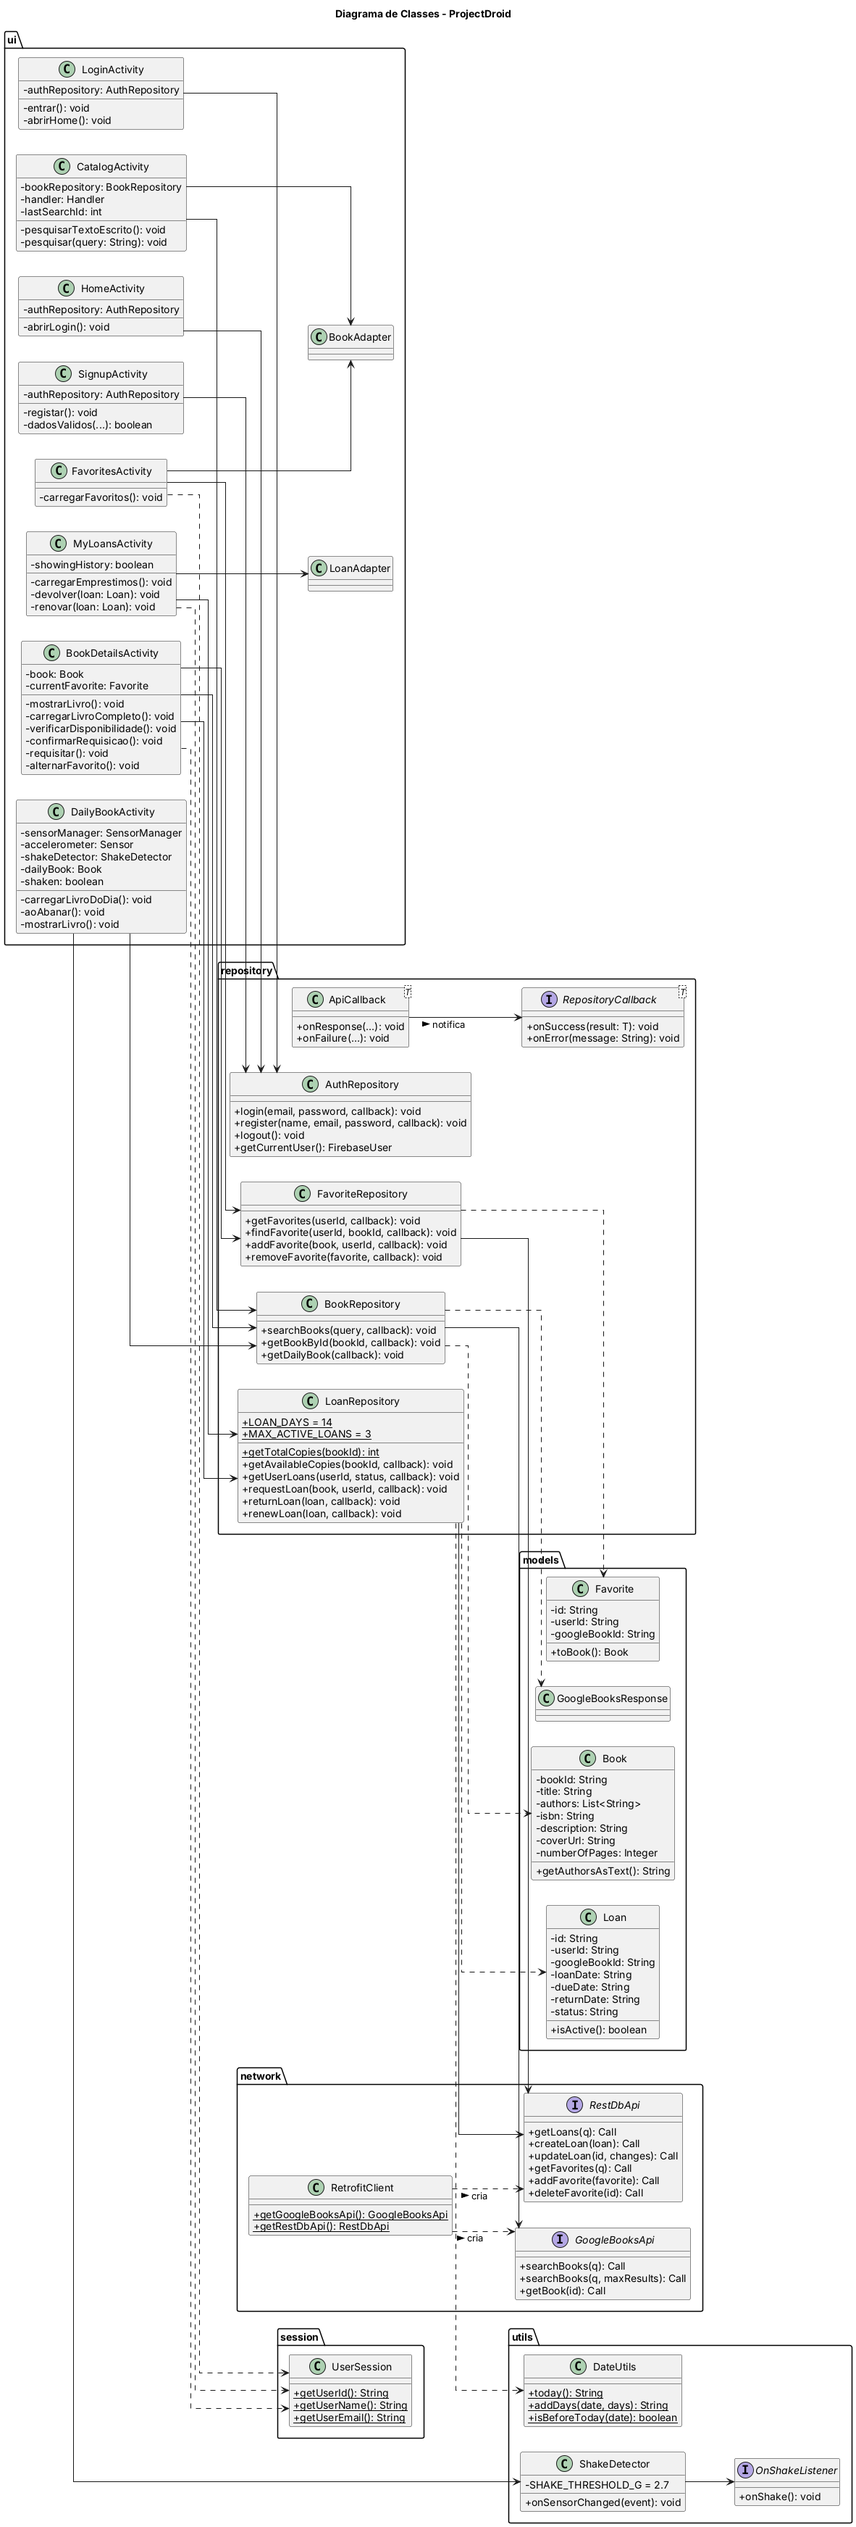
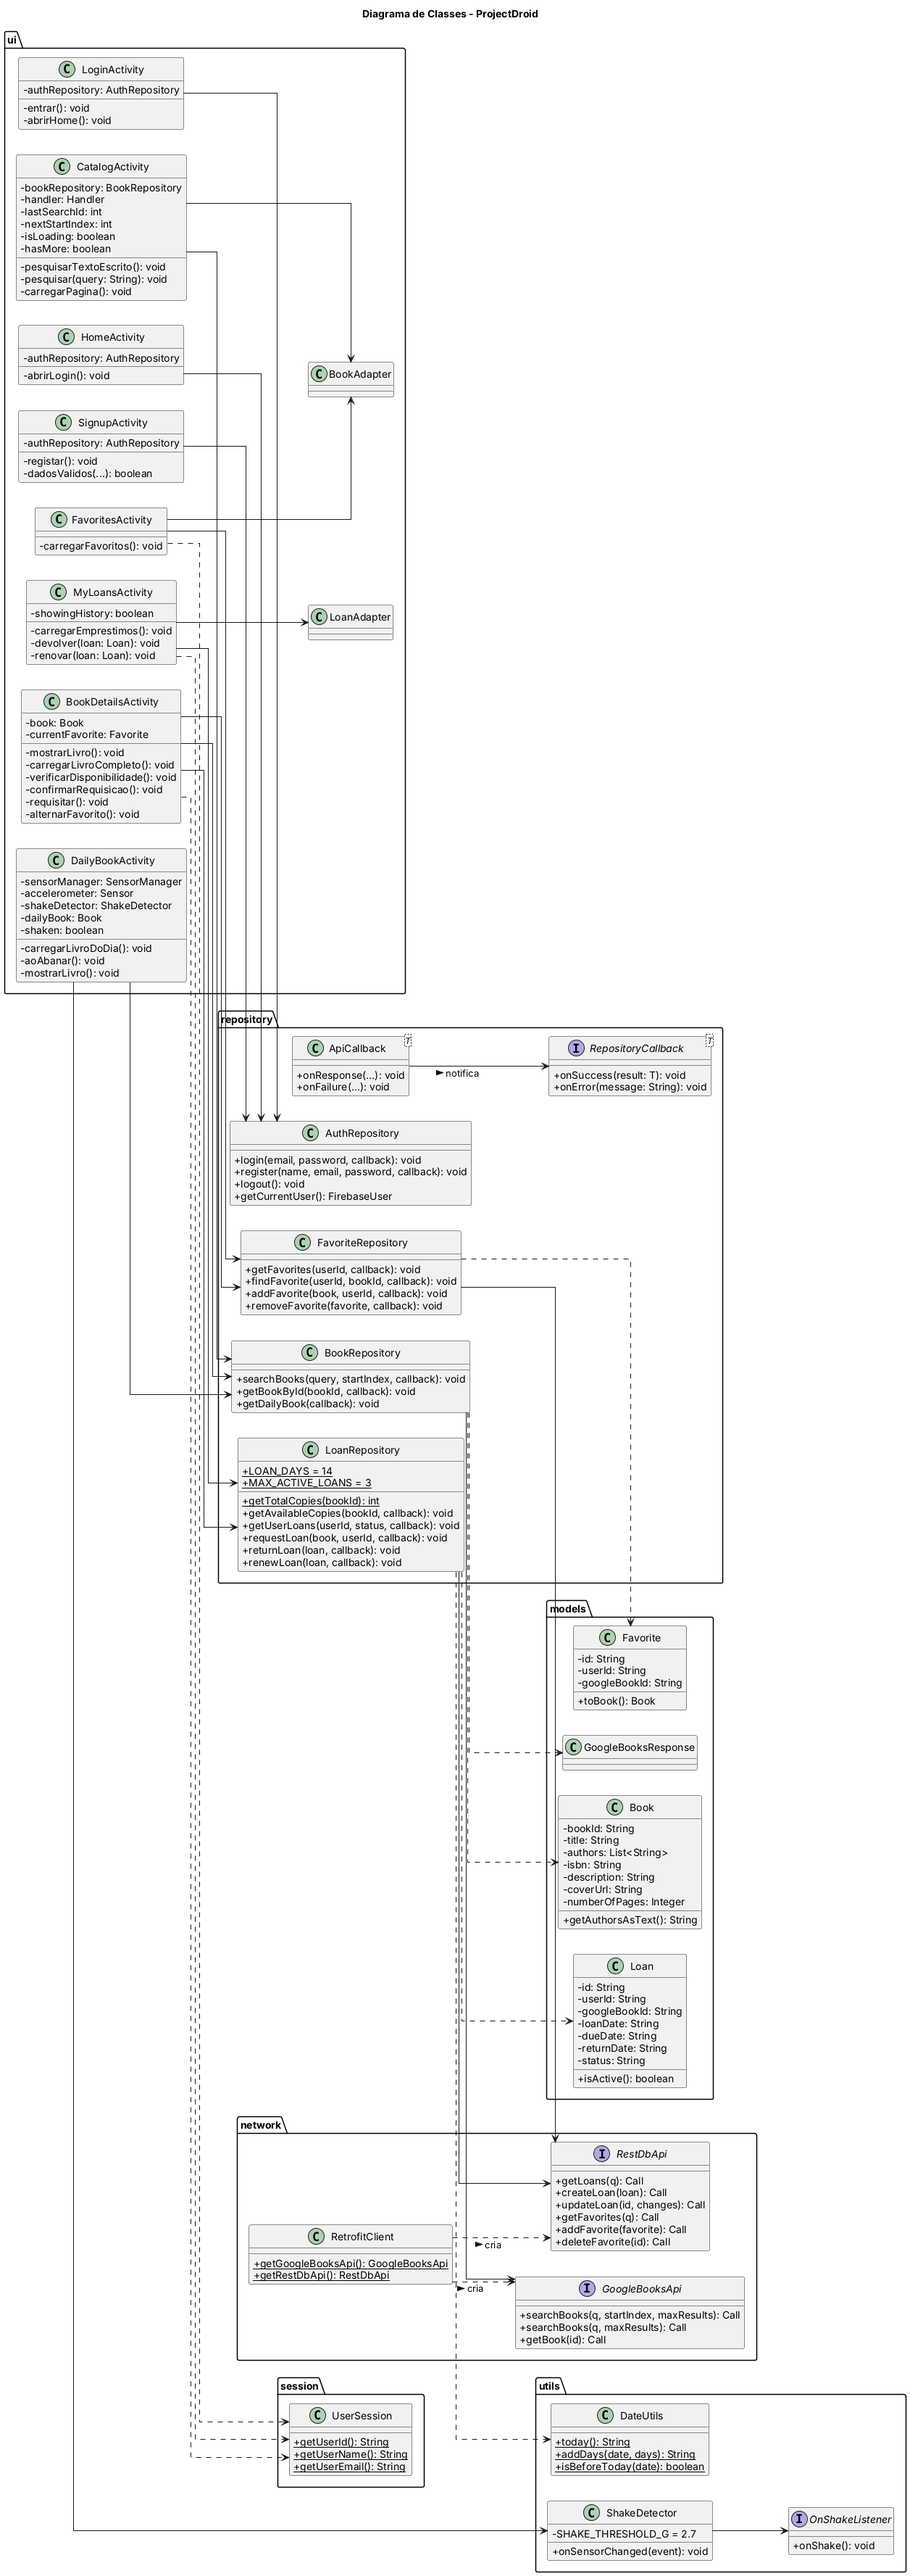
paginaçao do catalogo atualizada

diff --git a/app/src/main/java/com/example/projectdroid/ui/CatalogActivity.java b/app/src/main/java/com/example/projectdroid/ui/CatalogActivity.java
@@ -14,6 +14,7 @@ import android.widget.ProgressBar;
 import android.widget.TextView;
 import android.widget.Toast;
 
+import androidx.annotation.NonNull;
 import androidx.appcompat.app.AppCompatActivity;
 import androidx.recyclerview.widget.LinearLayoutManager;
 import androidx.recyclerview.widget.RecyclerView;
@@ -24,7 +25,9 @@ import com.example.projectdroid.repository.BookRepository;
 import com.example.projectdroid.repository.RepositoryCallback;
 
 import java.util.ArrayList;
+import java.util.HashSet;
 import java.util.List;
+import java.util.Set;
 
 public class CatalogActivity extends AppCompatActivity {
 
@@ -35,11 +38,16 @@ public class CatalogActivity extends AppCompatActivity {
     private static final int MIN_QUERY_LENGTH = 3;
     private static final long SEARCH_DELAY_MS = 500;
 
+    // Paginação: quando faltarem 5 livros para o fim da lista, pede a página seguinte
+    private static final int LOAD_MORE_THRESHOLD = 5;
+
     private final BookRepository bookRepository = new BookRepository();
     private final List<Book> books = new ArrayList<>();
     private BookAdapter adapter;
+    private LinearLayoutManager layoutManager;
     private EditText editSearchQuery;
     private ProgressBar progressSearch;
+    private ProgressBar progressMore;
     private TextView textEmpty;
 
     // Debounce: o Handler permite agendar uma tarefa para daqui a X milissegundos.
@@ -48,12 +56,18 @@ public class CatalogActivity extends AppCompatActivity {
     private final Handler handler = new Handler(Looper.getMainLooper());
     private final Runnable searchRunnable = this::pesquisarTextoEscrito;
 
-    // Cada pesquisa recebe um número. Se chegar a resposta de uma pesquisa antiga
+    // Cada pesquisa nova recebe um número. Se chegar a resposta de uma pesquisa antiga
     // (ex.: "har" depois de "harry"), o número já não é o atual e a resposta é ignorada.
     private int lastSearchId = 0;
 
-    // Última pesquisa feita, para não repetir o mesmo pedido à Google
+    // Pesquisa que está a ser mostrada, para não repetir o mesmo pedido à Google
     private String currentQuery = null;
+
+    // Estado da paginação da pesquisa atual
+    private int nextStartIndex = 0;     // posição do primeiro livro da próxima página
+    private boolean isLoading = false;  // true enquanto espera por uma página (evita pedidos repetidos)
+    private boolean hasMore = true;     // false quando a Google devolve uma página vazia
+    private final Set<String> loadedIds = new HashSet<>(); // a Google às vezes repete livros entre páginas
 
     @Override
     protected void onCreate(Bundle savedInstanceState) {
@@ -63,12 +77,30 @@ public class CatalogActivity extends AppCompatActivity {
         editSearchQuery = findViewById(R.id.editSearchQuery);
         Button btnSearch = findViewById(R.id.btnSearch);
         progressSearch = findViewById(R.id.progressSearch);
+        progressMore = findViewById(R.id.progressMore);
         textEmpty = findViewById(R.id.textEmpty);
         RecyclerView recyclerBooks = findViewById(R.id.recyclerBooks);
 
-        recyclerBooks.setLayoutManager(new LinearLayoutManager(this));
+        // O RecyclerView só cria as vistas dos livros visíveis e reutiliza-as durante o scroll,
+        // por isso a lista pode ter centenas de livros sem gastar mais memória
+        layoutManager = new LinearLayoutManager(this);
+        recyclerBooks.setLayoutManager(layoutManager);
         adapter = new BookAdapter(books);
         recyclerBooks.setAdapter(adapter);
+
+        // Scroll infinito: perto do fim da lista, carrega a página seguinte
+        recyclerBooks.addOnScrollListener(new RecyclerView.OnScrollListener() {
+            @Override
+            public void onScrolled(@NonNull RecyclerView recyclerView, int dx, int dy) {
+                if (dy <= 0) {
+                    return; // só interessa quando o utilizador desce
+                }
+                int lastVisible = layoutManager.findLastVisibleItemPosition();
+                if (lastVisible >= books.size() - LOAD_MORE_THRESHOLD) {
+                    carregarPagina();
+                }
+            }
+        });
 
         // Pesquisa automática enquanto se escreve
         editSearchQuery.addTextChangedListener(new TextWatcher() {
@@ -135,30 +167,78 @@ public class CatalogActivity extends AppCompatActivity {
         pesquisar(query);
     }
 
+    // Começa uma pesquisa nova: a paginação volta ao início
     private void pesquisar(String query) {
         if (query.equals(currentQuery)) {
             return;
         }
         currentQuery = query;
+        lastSearchId++;
+        nextStartIndex = 0;
+        hasMore = true;
+        isLoading = false;
 
-        int searchId = ++lastSearchId;
-        progressSearch.setVisibility(View.VISIBLE);
-        textEmpty.setVisibility(View.GONE);
+        carregarPagina();
+    }
 
-        bookRepository.searchBooks(query, new RepositoryCallback<List<Book>>() {
+    // Pede à Google a próxima página da pesquisa atual
+    private void carregarPagina() {
+        if (isLoading || !hasMore || currentQuery == null) {
+            return;
+        }
+        isLoading = true;
+
+        final int searchId = lastSearchId;
+        final int startIndex = nextStartIndex;
+        final boolean firstPage = (startIndex == 0);
+
+        if (firstPage) {
+            progressSearch.setVisibility(View.VISIBLE);
+            textEmpty.setVisibility(View.GONE);
+        } else {
+            progressMore.setVisibility(View.VISIBLE);
+        }
+
+        bookRepository.searchBooks(currentQuery, startIndex, new RepositoryCallback<List<Book>>() {
             @Override
             public void onSuccess(List<Book> result) {
                 if (searchId != lastSearchId) {
                     return; // resposta de uma pesquisa antiga: ignorar
                 }
+                isLoading = false;
                 progressSearch.setVisibility(View.GONE);
+                progressMore.setVisibility(View.GONE);
 
-                books.clear();
-                books.addAll(result);
-                adapter.notifyDataSetChanged();
+                if (firstPage) {
+                    books.clear();
+                    loadedIds.clear();
+                    adapter.notifyDataSetChanged();
+                }
 
-                // Em vez de um Toast (que apareceria a cada letra), mostramos um texto na lista
-                textEmpty.setVisibility(books.isEmpty() ? View.VISIBLE : View.GONE);
+                // Página vazia: não há mais livros para esta pesquisa
+                if (result.isEmpty()) {
+                    hasMore = false;
+                    textEmpty.setVisibility(books.isEmpty() ? View.VISIBLE : View.GONE);
+                    return;
+                }
+
+                // Acrescenta só os livros novos ao fim da lista
+                int oldSize = books.size();
+                for (Book book : result) {
+                    if (loadedIds.add(book.getBookId())) {
+                        books.add(book);
+                    }
+                }
+                int added = books.size() - oldSize;
+                // Avisa o adapter só das posições novas, em vez de redesenhar a lista toda
+                adapter.notifyItemRangeInserted(oldSize, added);
+
+                nextStartIndex += BookRepository.PAGE_SIZE;
+
+                // Se a página só tinha livros repetidos, pede logo a seguinte
+                if (added == 0) {
+                    carregarPagina();
+                }
             }
 
             @Override
@@ -166,10 +246,20 @@ public class CatalogActivity extends AppCompatActivity {
                 if (searchId != lastSearchId) {
                     return;
                 }
+                isLoading = false;
                 progressSearch.setVisibility(View.GONE);
-                // Permite repetir a mesma pesquisa depois de um erro (ex.: sem internet)
-                currentQuery = null;
-                Toast.makeText(CatalogActivity.this, message, Toast.LENGTH_LONG).show();
+                progressMore.setVisibility(View.GONE);
+
+                if (firstPage) {
+                    // Permite repetir a mesma pesquisa depois de um erro (ex.: sem internet)
+                    currentQuery = null;
+                    Toast.makeText(CatalogActivity.this, message, Toast.LENGTH_LONG).show();
+                } else {
+                    // Para de pedir páginas, para não mostrar um erro a cada scroll
+                    hasMore = false;
+                    Toast.makeText(CatalogActivity.this,
+                            "Não foi possível carregar mais livros.", Toast.LENGTH_SHORT).show();
+                }
             }
         });
     }

diff --git a/app/src/test/java/com/example/projectdroid/repository/BookRepositoryTest.java b/app/src/test/java/com/example/projectdroid/repository/BookRepositoryTest.java
@@ -6,6 +6,7 @@ import static org.junit.Assert.assertNull;
 import static org.junit.Assert.assertTrue;
 import static org.mockito.ArgumentMatchers.anyInt;
 import static org.mockito.ArgumentMatchers.anyString;
+import static org.mockito.ArgumentMatchers.eq;
 import static org.mockito.Mockito.mock;
 import static org.mockito.Mockito.times;
 import static org.mockito.Mockito.verify;
@@ -66,10 +67,10 @@ public class BookRepositoryTest {
         GoogleBooksResponse.Item item = item("id1", "Os Maias", Arrays.asList("Eça de Queirós"));
         item.volumeInfo.pageCount = 600;
         item.volumeInfo.description = "Romance";
-        when(api.searchBooks(anyString())).thenReturn(FakeCall.sucesso(response(item)));
+        when(api.searchBooks(anyString(), anyInt(), anyInt())).thenReturn(FakeCall.sucesso(response(item)));
 
         TestCallback<List<Book>> callback = new TestCallback<>();
-        repository.searchBooks("maias", callback);
+        repository.searchBooks("maias", 0, callback);
 
         assertEquals(1, callback.result.size());
         Book book = callback.result.get(0);
@@ -83,10 +84,10 @@ public class BookRepositoryTest {
     @Test
     public void semResultadosDevolveListaVazia() {
         // Quando não há resultados, a Google não envia a lista "items"
-        when(api.searchBooks(anyString())).thenReturn(FakeCall.sucesso(new GoogleBooksResponse()));
+        when(api.searchBooks(anyString(), anyInt(), anyInt())).thenReturn(FakeCall.sucesso(new GoogleBooksResponse()));
 
         TestCallback<List<Book>> callback = new TestCallback<>();
-        repository.searchBooks("xqzxqzxq", callback);
+        repository.searchBooks("xqzxqzxq", 0, callback);
 
         assertNotNull(callback.result);
         assertTrue(callback.result.isEmpty());
@@ -94,10 +95,10 @@ public class BookRepositoryTest {
 
     @Test
     public void livroSemAutoresFicaComAutorDesconhecido() {
-        when(api.searchBooks(anyString())).thenReturn(FakeCall.sucesso(response(item("id1", "Livro", null))));
+        when(api.searchBooks(anyString(), anyInt(), anyInt())).thenReturn(FakeCall.sucesso(response(item("id1", "Livro", null))));
 
         TestCallback<List<Book>> callback = new TestCallback<>();
-        repository.searchBooks("livro", callback);
+        repository.searchBooks("livro", 0, callback);
 
         assertEquals("Autor Desconhecido", callback.result.get(0).getAuthorsAsText());
     }
@@ -107,10 +108,10 @@ public class BookRepositoryTest {
         GoogleBooksResponse.Item item = item("id1", "Livro", null);
         item.volumeInfo.imageLinks = new GoogleBooksResponse.ImageLinks();
         item.volumeInfo.imageLinks.thumbnail = "http://books.google.com/capa.jpg";
-        when(api.searchBooks(anyString())).thenReturn(FakeCall.sucesso(response(item)));
+        when(api.searchBooks(anyString(), anyInt(), anyInt())).thenReturn(FakeCall.sucesso(response(item)));
 
         TestCallback<List<Book>> callback = new TestCallback<>();
-        repository.searchBooks("livro", callback);
+        repository.searchBooks("livro", 0, callback);
 
         assertEquals("https://books.google.com/capa.jpg", callback.result.get(0).getCoverUrl());
     }
@@ -121,10 +122,10 @@ public class BookRepositoryTest {
         item.volumeInfo.industryIdentifiers = Arrays.asList(
                 identifier("ISBN_10", "1234567890"),
                 identifier("ISBN_13", "9781234567897"));
-        when(api.searchBooks(anyString())).thenReturn(FakeCall.sucesso(response(item)));
+        when(api.searchBooks(anyString(), anyInt(), anyInt())).thenReturn(FakeCall.sucesso(response(item)));
 
         TestCallback<List<Book>> callback = new TestCallback<>();
-        repository.searchBooks("livro", callback);
+        repository.searchBooks("livro", 0, callback);
 
         assertEquals("9781234567897", callback.result.get(0).getIsbn());
     }
@@ -133,20 +134,31 @@ public class BookRepositoryTest {
     public void usaIsbn10QuandoNaoHaIsbn13() {
         GoogleBooksResponse.Item item = item("id1", "Livro", null);
         item.volumeInfo.industryIdentifiers = Arrays.asList(identifier("ISBN_10", "1234567890"));
-        when(api.searchBooks(anyString())).thenReturn(FakeCall.sucesso(response(item)));
+        when(api.searchBooks(anyString(), anyInt(), anyInt())).thenReturn(FakeCall.sucesso(response(item)));
 
         TestCallback<List<Book>> callback = new TestCallback<>();
-        repository.searchBooks("livro", callback);
+        repository.searchBooks("livro", 0, callback);
 
         assertEquals("1234567890", callback.result.get(0).getIsbn());
     }
 
     @Test
+    public void paginasSeguintesPedemOStartIndexCerto() {
+        when(api.searchBooks(anyString(), anyInt(), anyInt())).thenReturn(FakeCall.sucesso(response()));
+
+        repository.searchBooks("harry", 0, new TestCallback<>());
+        repository.searchBooks("harry", BookRepository.PAGE_SIZE, new TestCallback<>());
+
+        verify(api).searchBooks(eq("harry"), eq(0), eq(BookRepository.PAGE_SIZE));
+        verify(api).searchBooks(eq("harry"), eq(BookRepository.PAGE_SIZE), eq(BookRepository.PAGE_SIZE));
+    }
+
+    @Test
     public void semRedeDevolveErro() {
-        when(api.searchBooks(anyString())).thenReturn(FakeCall.semRede());
+        when(api.searchBooks(anyString(), anyInt(), anyInt())).thenReturn(FakeCall.semRede());
 
         TestCallback<List<Book>> callback = new TestCallback<>();
-        repository.searchBooks("livro", callback);
+        repository.searchBooks("livro", 0, callback);
 
         assertTrue(callback.error.startsWith("Erro de rede"));
         assertNull(callback.result);

diff --git a/app/src/main/java/com/example/projectdroid/repository/BookRepository.java b/app/src/main/java/com/example/projectdroid/repository/BookRepository.java
@@ -20,6 +20,9 @@ public class BookRepository {
     };
     private static final int DAILY_BOOK_RESULTS = 20;
 
+    // Quantos livros pedimos à Google de cada vez no catálogo
+    public static final int PAGE_SIZE = 20;
+
     private final GoogleBooksApi api;
 
     public BookRepository() {
@@ -31,8 +34,11 @@ public class BookRepository {
         this.api = api;
     }
 
-    public void searchBooks(String query, RepositoryCallback<List<Book>> callback) {
-        api.searchBooks(query).enqueue(new ApiCallback<>(new RepositoryCallback<GoogleBooksResponse>() {
+    // Pesquisa uma página de resultados. startIndex = 0 é a primeira página,
+    // PAGE_SIZE a segunda, 2 * PAGE_SIZE a terceira, etc.
+    // Uma lista vazia significa que não há mais livros para esta pesquisa.
+    public void searchBooks(String query, int startIndex, RepositoryCallback<List<Book>> callback) {
+        api.searchBooks(query, startIndex, PAGE_SIZE).enqueue(new ApiCallback<>(new RepositoryCallback<GoogleBooksResponse>() {
             @Override
             public void onSuccess(GoogleBooksResponse response) {
                 callback.onSuccess(converterLista(response));

diff --git a/app/src/main/java/com/example/projectdroid/network/GoogleBooksApi.java b/app/src/main/java/com/example/projectdroid/network/GoogleBooksApi.java
@@ -9,8 +9,12 @@ import retrofit2.http.Query;
 
 public interface GoogleBooksApi {
 
+    // Pesquisa paginada: startIndex = posição do primeiro resultado (0, 20, 40...),
+    // maxResults = quantos resultados por página (a Google aceita até 40)
     @GET("volumes")
-    Call<GoogleBooksResponse> searchBooks(@Query("q") String query);
+    Call<GoogleBooksResponse> searchBooks(@Query("q") String query,
+                                          @Query("startIndex") int startIndex,
+                                          @Query("maxResults") int maxResults);
 
     // Igual à de cima, mas escolhendo quantos resultados queremos (a Google aceita até 40)
     @GET("volumes")
